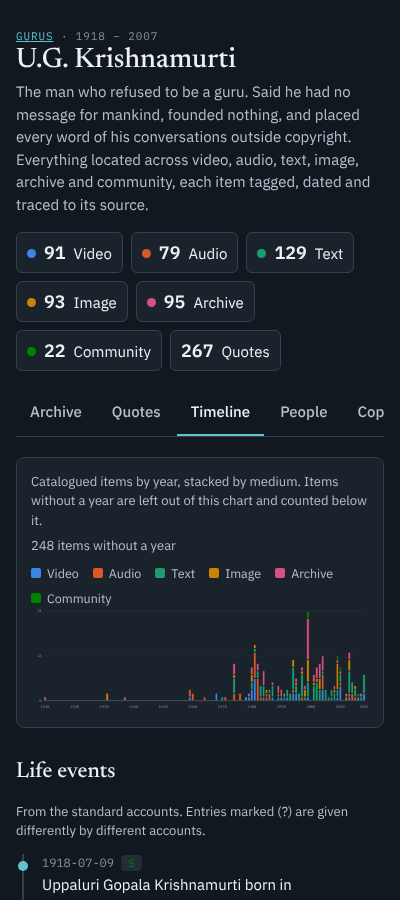
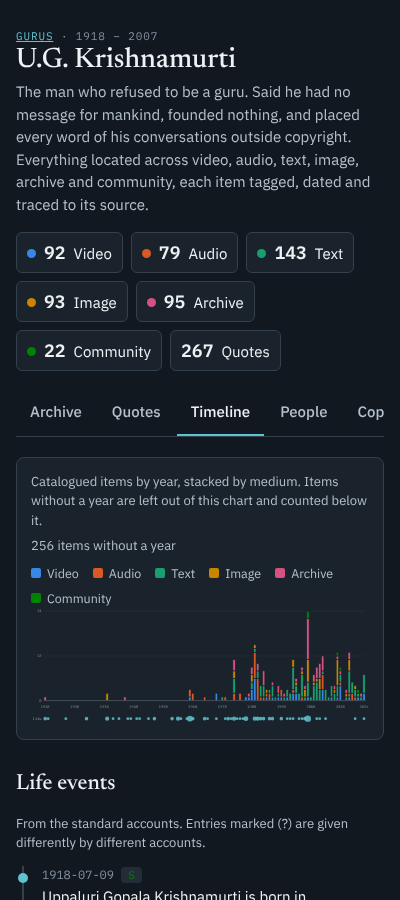
Life-event strip under the year chart; README counts regenerated by readme.py
Claude-Session: https://claude.ai/code/session_01Uh46cDYDW5Gk2aYewEiz9w

diff --git a/hanjopurebuddha.com/templates/teacher.html b/hanjopurebuddha.com/templates/teacher.html
@@ -397,6 +397,13 @@ svg.chart .label { fill: var(--fg-2); font-size: 11px; }
     let ax = `<line class="axis" x1="${L}" x2="${W - R}" y1="${T + ph}" y2="${T + ph}"/>`;
     for (let y = y0; y <= y1; y++) if ((y - y0) % step === 0 || y === y1) ax += `<text x="${L + (y - y0 + 0.5) * bw}" y="${H - 12}" text-anchor="middle">${y}</text>`;
     $('#yearChart').innerHTML = `<svg class="chart" viewBox="0 0 ${W} ${H}" role="img" aria-label="Items per year stacked by medium">${g}${bars}${ax}</svg>`;
+    // life events strip on the same scale
+    const evYears = EVENTS.map(e => { const m = String(e.date || '').match(/(18|19|20)\d\d/); return m ? +m[0] : null; }).filter(y => y && y >= y0 && y <= y1);
+    const evCount = {}; evYears.forEach(y => evCount[y] = (evCount[y] || 0) + 1);
+    let strip = `<svg class="chart" viewBox="0 0 ${W} 34" role="img" aria-label="Life events per year"><text x="${L - 6}" y="20" text-anchor="end">life</text>`;
+    Object.entries(evCount).forEach(([y, n]) => { const cx = L + (y - y0 + 0.5) * bw; strip += `<circle cx="${cx}" cy="16" r="${Math.min(3 + n, 9)}" fill="var(--accent)" opacity=".85"><title>${y}: ${n} event${n === 1 ? '' : 's'}</title></circle>`; });
+    strip += `</svg>`;
+    $('#yearChart').insertAdjacentHTML('beforeend', strip);
     const svg = $('#yearChart svg');
     svg.addEventListener('mousemove', e => { const r = e.target.closest('.hit'); if (!r) { hideTip(); return; } const o = byYear[r.dataset.y]; const tot = Object.values(o).reduce((a, b) => a + b, 0); showTip(e, `<b>${r.dataset.y}</b> · ${tot} item${tot === 1 ? '' : 's'}<br>` + MEDIA.filter(m => o[m]).map(m => `${MLABEL[m]} ${o[m]}`).join(' · ')); });
     svg.addEventListener('mouseleave', hideTip);

diff --git a/site/gurus/ug-krishnamurti/index.html b/site/gurus/ug-krishnamurti/index.html
@@ -397,6 +397,13 @@ svg.chart .label { fill: var(--fg-2); font-size: 11px; }
     let ax = `<line class="axis" x1="${L}" x2="${W - R}" y1="${T + ph}" y2="${T + ph}"/>`;
     for (let y = y0; y <= y1; y++) if ((y - y0) % step === 0 || y === y1) ax += `<text x="${L + (y - y0 + 0.5) * bw}" y="${H - 12}" text-anchor="middle">${y}</text>`;
     $('#yearChart').innerHTML = `<svg class="chart" viewBox="0 0 ${W} ${H}" role="img" aria-label="Items per year stacked by medium">${g}${bars}${ax}</svg>`;
+    // life events strip on the same scale
+    const evYears = EVENTS.map(e => { const m = String(e.date || '').match(/(18|19|20)\d\d/); return m ? +m[0] : null; }).filter(y => y && y >= y0 && y <= y1);
+    const evCount = {}; evYears.forEach(y => evCount[y] = (evCount[y] || 0) + 1);
+    let strip = `<svg class="chart" viewBox="0 0 ${W} 34" role="img" aria-label="Life events per year"><text x="${L - 6}" y="20" text-anchor="end">life</text>`;
+    Object.entries(evCount).forEach(([y, n]) => { const cx = L + (y - y0 + 0.5) * bw; strip += `<circle cx="${cx}" cy="16" r="${Math.min(3 + n, 9)}" fill="var(--accent)" opacity=".85"><title>${y}: ${n} event${n === 1 ? '' : 's'}</title></circle>`; });
+    strip += `</svg>`;
+    $('#yearChart').insertAdjacentHTML('beforeend', strip);
     const svg = $('#yearChart svg');
     svg.addEventListener('mousemove', e => { const r = e.target.closest('.hit'); if (!r) { hideTip(); return; } const o = byYear[r.dataset.y]; const tot = Object.values(o).reduce((a, b) => a + b, 0); showTip(e, `<b>${r.dataset.y}</b> · ${tot} item${tot === 1 ? '' : 's'}<br>` + MEDIA.filter(m => o[m]).map(m => `${MLABEL[m]} ${o[m]}`).join(' · ')); });
     svg.addEventListener('mouseleave', hideTip);

diff --git a/hanjopurebuddha.com/teachers/_template/readme.py b/hanjopurebuddha.com/teachers/_template/readme.py
@@ -1,0 +1,31 @@
+"""Regenerate the dataset table in README.md from integrity.json.
+
+    python3 readme.py
+
+Replaces everything between <!-- counts --> and <!-- /counts --> in
+README.md with the current counts. Add those two markers to a README once.
+"""
+import json, pathlib, re
+HERE = pathlib.Path(__file__).resolve().parent
+s = json.loads((HERE / "integrity.json").read_text(encoding="utf-8"))["summary"]
+block = f"""<!-- counts -->
+| File | What | Count |
+|---|---|---|
+| `items.json` | located media items across video, audio, text, image, archive, community | {s['items']} |
+| `quotes.json` | words of the teacher, each with book, chapter, confidence, kind, verdict, sources | {s['quotes']} |
+| `events.json` | dated life events with sources | {s['events']} |
+| `people.json` | everyone connected to the record, with role and what they hold | {s['people']} |
+
+Items by medium: {", ".join(f"{k} {v}" for k, v in s['items_by_medium'].items())}.
+Items by confidence: {", ".join(f"{k} {v}" for k, v in s['items_by_confidence'].items())}.
+Quotes by verdict: {", ".join(f"{k} {v}" for k, v in s['quotes_by_verdict'].items())}.
+Distinct source hosts cited: {s['distinct_source_hosts']}.
+<!-- /counts -->"""
+p = HERE / "README.md"
+t = p.read_text(encoding="utf-8")
+if "<!-- counts -->" in t:
+    t = re.sub(r"<!-- counts -->[\s\S]*?<!-- /counts -->", block, t)
+else:
+    t = t + "\n\n" + block + "\n"
+p.write_text(t, encoding="utf-8")
+print("README counts updated")

diff --git a/hanjopurebuddha.com/teachers/ug-krishnamurti/readme.py b/hanjopurebuddha.com/teachers/ug-krishnamurti/readme.py
@@ -1,0 +1,31 @@
+"""Regenerate the dataset table in README.md from integrity.json.
+
+    python3 readme.py
+
+Replaces everything between <!-- counts --> and <!-- /counts --> in
+README.md with the current counts. Add those two markers to a README once.
+"""
+import json, pathlib, re
+HERE = pathlib.Path(__file__).resolve().parent
+s = json.loads((HERE / "integrity.json").read_text(encoding="utf-8"))["summary"]
+block = f"""<!-- counts -->
+| File | What | Count |
+|---|---|---|
+| `items.json` | located media items across video, audio, text, image, archive, community | {s['items']} |
+| `quotes.json` | words of the teacher, each with book, chapter, confidence, kind, verdict, sources | {s['quotes']} |
+| `events.json` | dated life events with sources | {s['events']} |
+| `people.json` | everyone connected to the record, with role and what they hold | {s['people']} |
+
+Items by medium: {", ".join(f"{k} {v}" for k, v in s['items_by_medium'].items())}.
+Items by confidence: {", ".join(f"{k} {v}" for k, v in s['items_by_confidence'].items())}.
+Quotes by verdict: {", ".join(f"{k} {v}" for k, v in s['quotes_by_verdict'].items())}.
+Distinct source hosts cited: {s['distinct_source_hosts']}.
+<!-- /counts -->"""
+p = HERE / "README.md"
+t = p.read_text(encoding="utf-8")
+if "<!-- counts -->" in t:
+    t = re.sub(r"<!-- counts -->[\s\S]*?<!-- /counts -->", block, t)
+else:
+    t = t + "\n\n" + block + "\n"
+p.write_text(t, encoding="utf-8")
+print("README counts updated")

diff --git a/site/gurus/ug-krishnamurti/catalogue/wave5-verification-2.md b/site/gurus/ug-krishnamurti/catalogue/wave5-verification-2.md
@@ -1,0 +1,136 @@
+# Wave 5 — Quote verification pass 2 (U.G. Krishnamurti)
+
+**Status: no searches executed.** This second verification pass was planned as ~50 exact-phrase WebSearch queries (verbatim single-source first, then verbatim multi-source, then primary-source). When the first batch of five queries was sent, the search tool reported that the turn-wide WebSearch budget (200 calls, shared by every agent in the turn) was already used up by earlier researchers. Per instructions, the pass stopped there. No new corroboration, wording variants or attribution conflicts were found in this pass; everything below records the plan so a follow-up turn can execute it directly.
+
+Jiddu Krishnamurti hosts (kfoundation.org, jkrishnamurti.org, kfa.org) were set as blocked domains on every query.
+
+## Candidate table (planned, unsearched)
+
+| id | first words | verdict (pre-existing, unchanged) | confirming hosts | note |
+|---|---|---|---|---|
+| qfd63f8c6 | Thought has interfered and trying to suppress,… | single-source | — | not searched (budget exhausted); book per quotes.json: Thought is Your Enemy |
+| qbd6fe67c | What you are afraid of is not… | single-source | — | not searched (budget exhausted); book per quotes.json: No Way Out |
+| q1c893a18 | Thinking about and struggling against 'sorrow' is… | single-source | — | not searched (budget exhausted); book per quotes.json: Mind is a Myth |
+| qe27976db | You hook up each thought with the… | single-source | — | not searched (budget exhausted); book per quotes.json: Mind is a Myth |
+| q044d9da9 | It is not an illusion, only your… | single-source | — | not searched (budget exhausted); book per quotes.json: The Courage to Stand Alone |
+| qd05c2db1 | you arrive seeking understanding, while I am… | single-source | — | not searched (budget exhausted); book per quotes.json: Mind is a Myth |
+| qacfbd56d | Life has to be described in pure… | single-source | — | not searched (budget exhausted); book per quotes.json: unassigned |
+| q25e43852 | There is nothing there - no soul… | single-source | — | not searched (budget exhausted); book per quotes.json: unassigned |
+| qec037541 | The only relationship you have with anybody… | single-source | — | not searched (budget exhausted); book per quotes.json: unassigned |
+| q93a61f20 | I have nothing to say and what… | single-source | — | not searched (budget exhausted); book per quotes.json: U.G. Krishnamurti: A Life |
+| q71efd67f | Hope is necessary for tomorrow, not for… | single-source | — | not searched (budget exhausted); book per quotes.json: Mind is a Myth |
+| q1fb36c86 | Not a calamity to me but a… | single-source | — | not searched (budget exhausted); book per quotes.json: The Mystique of Enlightenment |
+| q80ebe1ef | The pleasure of sex, for instance, is… | single-source | — | not searched (budget exhausted); book per quotes.json: unassigned |
+| q39067cd0 | Love, compassion, ahimsa, understanding, bliss, all these… | single-source | — | not searched (budget exhausted); book per quotes.json: unassigned |
+| q62dd75b6 | All your experiences, all your meditations, all… | single-source | — | not searched (budget exhausted); book per quotes.json: unassigned |
+| q08a43a02 | I am only interested in describing this… | single-source | — | not searched (budget exhausted); book per quotes.json: The Mystique of Enlightenment |
+| qa2698ac8 | It is a business; it has become… | single-source | — | not searched (budget exhausted); book per quotes.json: unassigned |
+| q1676a73f | It is fear that makes you believe… | single-source | — | not searched (budget exhausted); book per quotes.json: The Mystique of Enlightenment |
+| q21e36727 | Because you cannot face the impermanence of… | single-source | — | not searched (budget exhausted); book per quotes.json: unassigned |
+| q39d01d99 | Transformation, moksha, liberation, and all that stuff… | single-source | — | not searched (budget exhausted); book per quotes.json: No Way Out |
+| qfc5867cf | There is no happiness.… | single-source | — | not searched (budget exhausted); book per quotes.json: unassigned |
+| q7f2ee6c3 | The body or organism is not interested… | single-source | — | not searched (budget exhausted); book per quotes.json: Science and U.G. |
+| q77b540c6 | This can also lead to self-destruction for… | single-source | — | not searched (budget exhausted); book per quotes.json: Science and U.G. |
+| qd74b2e4b | Political institutions and ideologies are the warty… | single-source | — | not searched (budget exhausted); book per quotes.json: Thought is Your Enemy |
+| q8d5e7e71 | Yes it is. Because thought is violent.… | single-source | — | not searched (budget exhausted); book per quotes.json: Thought is Your Enemy |
+| q3814bcc6 | Don't forget that in the name of… | single-source | — | not searched (budget exhausted); book per quotes.json: Thought is Your Enemy |
+| qb4728a46 | The body does not exist except as… | single-source | — | not searched (budget exhausted); book per quotes.json: unassigned |
+| q4e912343 | The knowledge about it, all that he… | single-source | — | not searched (budget exhausted); book per quotes.json: The Natural State |
+| qc213105f | Making love is war.… | single-source | — | not searched (budget exhausted); book per quotes.json: unassigned |
+| qac8b2fca | Unquestioned action is morality.… | multi-source | — | not searched (budget exhausted); book per quotes.json: The Mystique of Enlightenment |
+| q5f1205b6 | There is no power outside of man.… | multi-source | — | not searched (budget exhausted); book per quotes.json: The Mystique of Enlightenment |
+| q3148c69a | We don't want to be free from… | multi-source | — | not searched (budget exhausted); book per quotes.json: The Mystique of Enlightenment |
+| q7a1ee58c | Thought can never capture the movement of… | multi-source | — | not searched (budget exhausted); book per quotes.json: Mind is a Myth |
+| qc94ba81d | If you have the courage to touch… | multi-source | — | not searched (budget exhausted); book per quotes.json: Mind is a Myth |
+| qd8034757 | There is no such thing as truth.… | multi-source | — | not searched (budget exhausted); book per quotes.json: Mind is a Myth |
+| q69f83f72 | There is no such thing as spiritual… | multi-source | — | not searched (budget exhausted); book per quotes.json: Mind is a Myth |
+| q2c9515a2 | I have had to search and it… | multi-source | — | not searched (budget exhausted); book per quotes.json: Mind is a Myth |
+| q870d1afa | Nature is busy creating absolutely unique individuals,… | multi-source | — | not searched (budget exhausted); book per quotes.json: Mind is a Myth |
+| qd42e2a22 | Society or culture or whatever you might… | multi-source | — | not searched (budget exhausted); book per quotes.json: Thought is Your Enemy |
+| q77f34910 | You can have the courage to climb… | multi-source | — | not searched (budget exhausted); book per quotes.json: The Courage to Stand Alone |
+| q086ab55c | Fear is the very thing that you… | multi-source | — | not searched (budget exhausted); book per quotes.json: No Way Out |
+| qc774741b | What you call 'yourself' is fear. The… | multi-source | — | not searched (budget exhausted); book per quotes.json: No Way Out |
+| q6fe326b5 | The body cannot be afraid of death.… | multi-source | — | not searched (budget exhausted); book per quotes.json: No Way Out |
+| qbb1ee524 | Nature is busy creating absolutely unique individuals,… | multi-source | — | not searched (budget exhausted); book per quotes.json: The Courage to Stand Alone |
+| qb9d58205 | The stopping of doing is courage.… | multi-source | — | not searched (budget exhausted); book per quotes.json: Mind is a Myth |
+| q85310fad | A guru is one who tells you… | multi-source | — | not searched (budget exhausted); book per quotes.json: The Natural State |
+| qd9402af0 | That any fool can do, but the… | multi-source | — | not searched (budget exhausted); book per quotes.json: The Courage to Stand Alone |
+| qb5941095 | You are trying to enforce peace through… | multi-source | — | not searched (budget exhausted); book per quotes.json: unassigned |
+| qf440d043 | You don't have to do a thing.… | multi-source | — | not searched (budget exhausted); book per quotes.json: The Courage to Stand Alone |
+| q93823c44 | It would be more interesting to learn… | multi-source | — | not searched (budget exhausted); book per quotes.json: unassigned |
+
+## Summary per verdict
+
+No verdicts were changed. Pre-existing verdicts of the 50 planned candidates:
+
+- single-source: 29
+- multi-source: 21
+- corroborated-primary / corroborated-secondary / disputed / not-ug / not-found newly assigned in this pass: 0 each
+
+Remaining unchecked pool in quotes.json (all kinds, verdict not in the skip set): 219 quotes; this pass had planned the first 50 by priority.
+
+## Book attribution conflicts
+
+None newly found (no searches run). Conflicts already recorded in quotes.json notes and worth re-checking first in the follow-up pass:
+
+- qfd63f8c6 (Thought is Your Enemy): Context: desire is a bodily, natural matter. Verification: Goodreads files this under the 'Certainty' anthology, not Thought is Your Enemy.
+- q044d9da9 (The Courage to Stand Alone): Verification: Goodreads files it under Courage to Stand Alone, not Mind is a Myth.
+- qac8b2fca (The Mystique of Enlightenment): Part of the Q&A passage beginning "What is morality? It is not the following of enjoined [rules]…". Most sites credit Mystique; one Goodreads listing credits Mind Is a Myth.
+- qbb1ee524 (The Courage to Stand Alone): Goodreads files it under The Courage to Stand Alone; other sites attribute it to Mind is a Myth ch. IV, where it ends 'It is grotesque.'
+
+## Planned queries for the follow-up pass
+
+- qfd63f8c6: "has interfered and trying to suppress, control, and moralize about" Krishnamurti
+- qbd6fe67c: "What you are afraid of is not death" Krishnamurti
+- q1c893a18: "about and struggling against 'sorrow' is sorrow. Since you can't" Krishnamurti
+- qe27976db: "hook up each thought with the next, creating a false" Krishnamurti
+- q044d9da9: "is not an illusion, only your experience of it is" Krishnamurti
+- qd05c2db1: "arrive seeking understanding, while I am only interested in making" Krishnamurti
+- qacfbd56d: "has to be described in pure and simple physical and" Krishnamurti
+- q25e43852: "is nothing there - no soul - there is only" Krishnamurti
+- qec037541: "only relationship you have with anybody in this world is" Krishnamurti
+- q93a61f20: "have nothing to say and what I am saying is" Krishnamurti
+- q71efd67f: "Hope is necessary for tomorrow, not for today" Krishnamurti
+- q1fb36c86: "a calamity to me but a calamity to those who" Krishnamurti
+- q80ebe1ef: "The pleasure of sex, for instance, is by nature temporary" Krishnamurti
+- q39067cd0: "compassion, ahimsa, understanding, bliss, all these things which religion and" Krishnamurti
+- q62dd75b6: "your experiences, all your meditations, all your prayer, all that" Krishnamurti
+- q08a43a02: "am only interested in describing this state, in clearing away" Krishnamurti
+- qa2698ac8: "It is a business; it has become a holy business" Krishnamurti
+- q1676a73f: "is fear that makes you believe that you are living" Krishnamurti
+- q21e36727: "you cannot face the impermanence of all relationships, you invent" Krishnamurti
+- q39d01d99: "moksha, liberation, and all that stuff are just variations on" Krishnamurti
+- qfc5867cf: "There is no happiness" Krishnamurti
+- q7f2ee6c3: "The body or organism is not interested in spiritual matters" Krishnamurti
+- q77b540c6: "can also lead to self-destruction for the sake of even" Krishnamurti
+- qd74b2e4b: "institutions and ideologies are the warty outgrowth of the religious" Krishnamurti
+- q8d5e7e71: "it is. Because thought is violent. Anything that is born" Krishnamurti
+- q3814bcc6: "forget that in the name of "Love thy neighbor as" Krishnamurti
+- qb4728a46: "The body does not exist except as a thought" Krishnamurti
+- q4e912343: "knowledge about it, all that he has learned, is held" Krishnamurti
+- qc213105f: "Making love is war" Krishnamurti
+- qac8b2fca: "Unquestioned action is morality" Krishnamurti
+- q5f1205b6: "is no power outside of man. Man has created God" Krishnamurti
+- q3148c69a: "don't want to be free from fear. All that we" Krishnamurti
+- q7a1ee58c: "can never capture the movement of life, it is much" Krishnamurti
+- qc94ba81d: "you have the courage to touch life for the first" Krishnamurti
+- qd8034757: "is no such thing as truth. The only thing that" Krishnamurti
+- q69f83f72: "is no such thing as spiritual or psychological enlightenment because" Krishnamurti
+- q2c9515a2: "have had to search and it is the search itself" Krishnamurti
+- q870d1afa: "is busy creating absolutely unique individuals, whereas culture has invented" Krishnamurti
+- qd42e2a22: "or culture or whatever you might want to call it" Krishnamurti
+- q77f34910: "can have the courage to climb the mountain, swim the" Krishnamurti
+- q086ab55c: "is the very thing that you do not want to" Krishnamurti
+- qc774741b: "you call 'yourself' is fear. The 'you' is born out" Krishnamurti
+- q6fe326b5: "body cannot be afraid of death. The movement that is" Krishnamurti
+- qbb1ee524: "is busy creating absolutely unique individuals, whereas culture has invented" Krishnamurti
+- qb9d58205: "The stopping of doing is courage" Krishnamurti
+- q85310fad: "guru is one who tells you to throw away all" Krishnamurti
+- qd9402af0: "any fool can do, but the courage to be on" Krishnamurti
+- qb5941095: "are trying to enforce peace through violence. Yoga, meditation, prayers" Krishnamurti
+- qf440d043: "You don't have to do a thing" Krishnamurti
+- q93823c44: "would be more interesting to learn from children, than try" Krishnamurti
+
+## Sources
+
+No web sources were consulted in this pass. Input: `/home/user/drthomasager.com/hanjopurebuddha.com/teachers/ug-krishnamurti/quotes.json`. Machine-readable output: `/tmp/claude-0/-home-user-drthomasager-com/7c7edf2e-a0bd-5288-a28d-2ac0e832645f/scratchpad/json/verification-2.json`.

diff --git a/hanjopurebuddha.com/teachers/ug-krishnamurti/README.md b/hanjopurebuddha.com/teachers/ug-krishnamurti/README.md
@@ -9,19 +9,19 @@ are published next to the page as JSON.
 
 ## The dataset now
 
+<!-- counts -->
 | File | What | Count |
 |---|---|---|
-| `items.json` | located media items across video, audio, text, image, archive, community | 509 |
-| `quotes.json` | his words, each with book, chapter, confidence, kind, verdict, sources | 267 |
-| `events.json` | dated life events with sources (from the chronology researcher) | 24 |
-| `people.json` | everyone connected to the record, with role and what they hold | 64 |
-| `catalogue/*.md` | the researchers' full reports, one per medium and wave | see folder |
-| `integrity-report.md` | the integrity checker's findings, regenerated after every merge | — |
+| `items.json` | located media items across video, audio, text, image, archive, community | 524 |
+| `quotes.json` | words of the teacher, each with book, chapter, confidence, kind, verdict, sources | 267 |
+| `events.json` | dated life events with sources | 84 |
+| `people.json` | everyone connected to the record, with role and what they hold | 87 |
 
-Items by medium: archive 95, community 22, audio 79, image 93, text 129, video 91.
-Items by confidence: S 469, T 2, lead 38.
-Quotes by verdict: multi-source 53, primary-source 80, disputed 1, corroborated-secondary 26, single-source 99, corroborated-primary 7, not-found 1.
-Distinct source hosts cited: 271.
+Items by medium: archive 95, community 22, audio 79, image 93, text 143, video 92.
+Items by confidence: S 483, T 2, lead 39.
+Quotes by verdict: multi-source 53, primary-source 75, disputed 2, corroborated-secondary 34, single-source 91, not-found 2, corroborated-primary 10.
+Distinct source hosts cited: 285.
+<!-- /counts -->
 
 ## The one-line answer on copyright
 

diff --git a/site/gurus/ug-krishnamurti/README.md b/site/gurus/ug-krishnamurti/README.md
@@ -9,19 +9,19 @@ are published next to the page as JSON.
 
 ## The dataset now
 
+<!-- counts -->
 | File | What | Count |
 |---|---|---|
-| `items.json` | located media items across video, audio, text, image, archive, community | 509 |
-| `quotes.json` | his words, each with book, chapter, confidence, kind, verdict, sources | 267 |
-| `events.json` | dated life events with sources (from the chronology researcher) | 24 |
-| `people.json` | everyone connected to the record, with role and what they hold | 64 |
-| `catalogue/*.md` | the researchers' full reports, one per medium and wave | see folder |
-| `integrity-report.md` | the integrity checker's findings, regenerated after every merge | — |
+| `items.json` | located media items across video, audio, text, image, archive, community | 524 |
+| `quotes.json` | words of the teacher, each with book, chapter, confidence, kind, verdict, sources | 267 |
+| `events.json` | dated life events with sources | 84 |
+| `people.json` | everyone connected to the record, with role and what they hold | 87 |
 
-Items by medium: archive 95, community 22, audio 79, image 93, text 129, video 91.
-Items by confidence: S 469, T 2, lead 38.
-Quotes by verdict: multi-source 53, primary-source 80, disputed 1, corroborated-secondary 26, single-source 99, corroborated-primary 7, not-found 1.
-Distinct source hosts cited: 271.
+Items by medium: archive 95, community 22, audio 79, image 93, text 143, video 92.
+Items by confidence: S 483, T 2, lead 39.
+Quotes by verdict: multi-source 53, primary-source 75, disputed 2, corroborated-secondary 34, single-source 91, not-found 2, corroborated-primary 10.
+Distinct source hosts cited: 285.
+<!-- /counts -->
 
 ## The one-line answer on copyright
 
